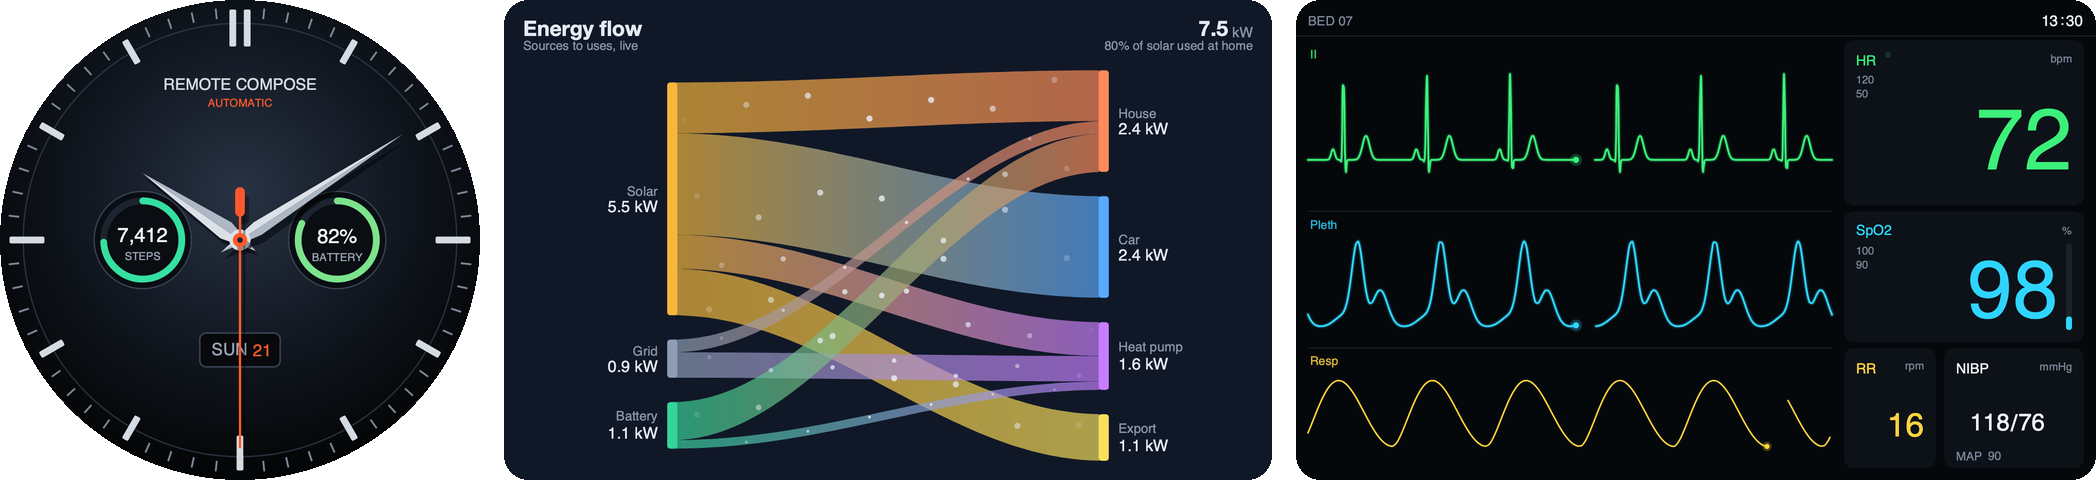
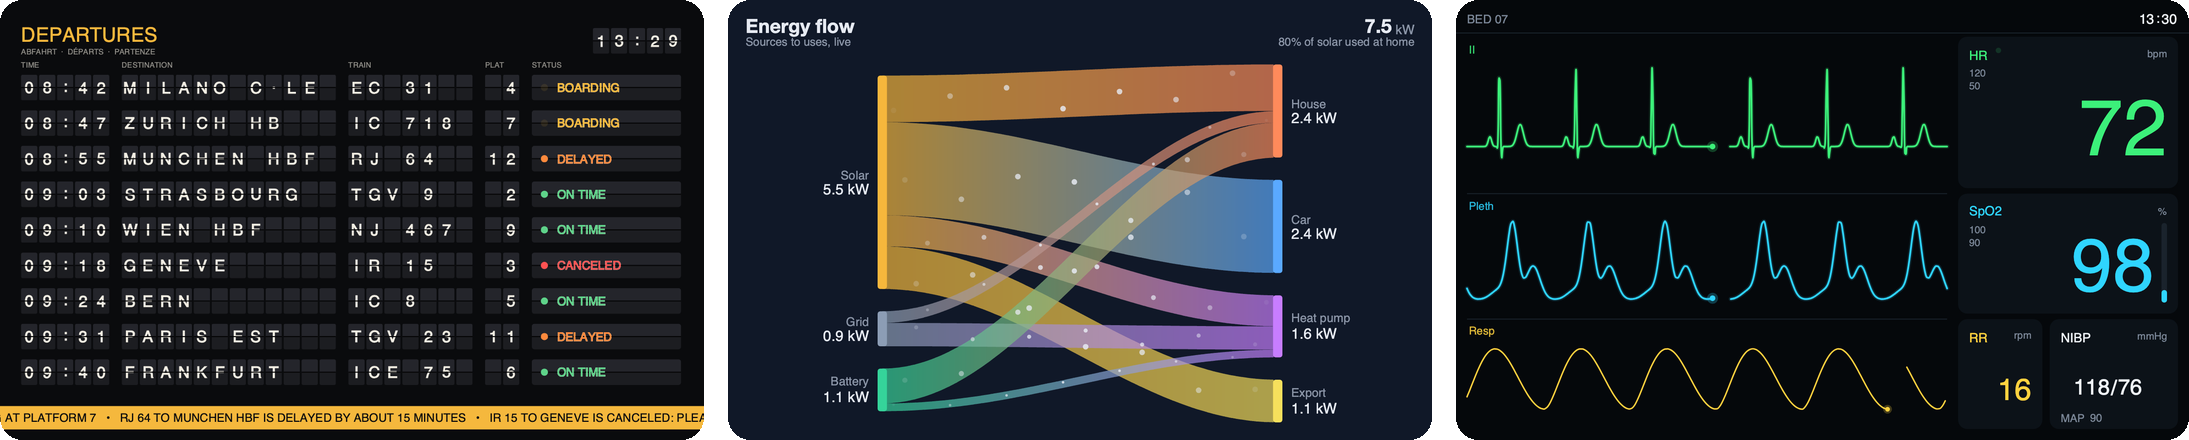
profile: no watch face: a departure board in the displays strip
Claude-Session: https://claude.ai/code/session_011Cx1BoxKZWJt6dsJN4xyqN

diff --git a/profile/README.md b/profile/README.md
@@ -52,10 +52,10 @@ data driven by the clock, all in a few kilobytes, and they adapt from a phone to
 [Play with them](https://mcp.kobento.dev/showcases/).
 
 <p align="center">
-  <img src="https://raw.githubusercontent.com/kobento/.github/main/profile/images/displays.png" alt="A watch face with steps and battery, a live home-energy Sankey diagram, and a patient monitor with ECG, pleth and respiration traces" width="100%">
+  <img src="https://raw.githubusercontent.com/kobento/.github/main/profile/images/displays.png" alt="A split-flap departure board, a live home-energy Sankey diagram, and a patient monitor with ECG, pleth and respiration traces" width="100%">
 </p>
 
-They aren't just phone screens: watch faces, dashboards, wall displays and instruments are
+They aren't just phone screens: departure boards, dashboards, wall displays and instruments are
 documents too.
 
 ## Ask, then ship
